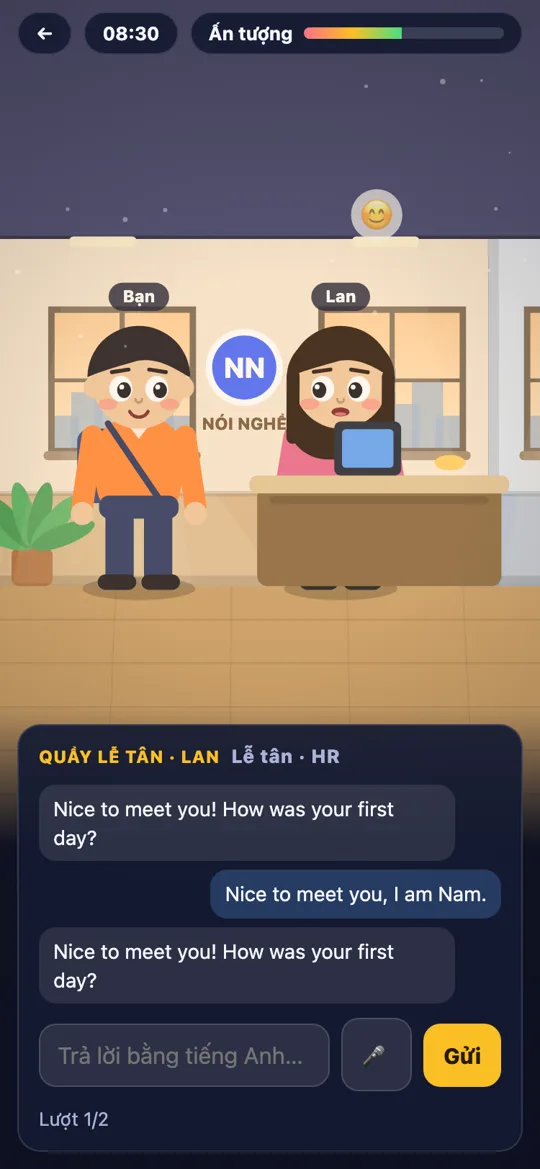
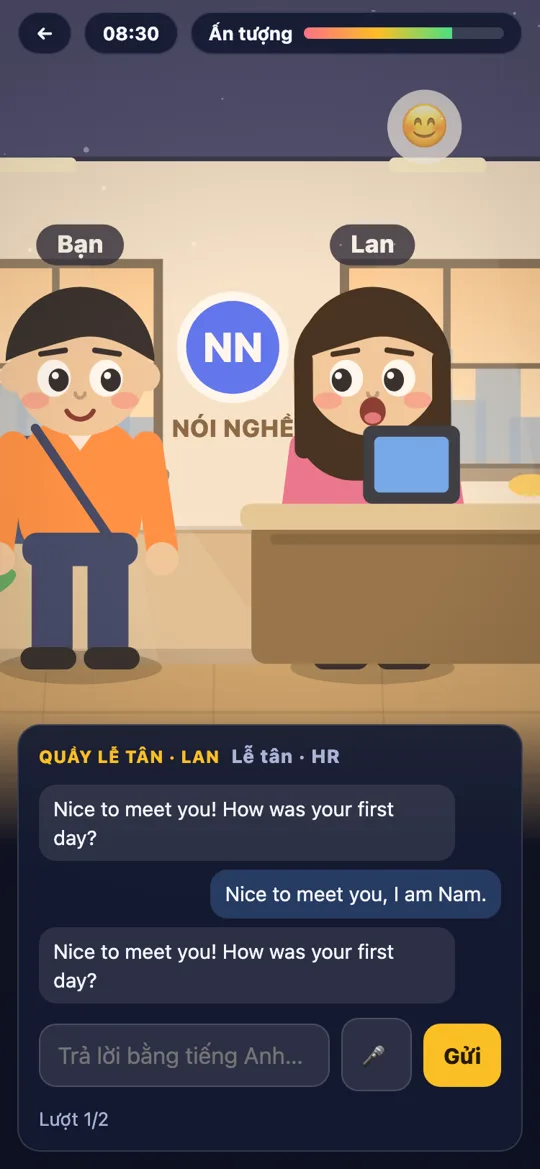
fix(game3d): phóng to cảnh cho lấp khoảng trống phía trên; cập nhật ảnh showcase, README test

diff --git a/game3d/game3d.js b/game3d/game3d.js
@@ -180,8 +180,8 @@ function frame(now){
   var dt=Math.min(.05,(now-t0)/1000);t0=now;
   var pt=$('#panel'),top=CH-(pt?pt.offsetHeight:200);
   var avail=Math.max(160,top-70),fyT,scT,camT;
-  if(view.over||!st.on){scT=Math.min(CW/(W*1.5),avail/330);fyT=70+(avail+WALL*scT)/2;camT=reduce?2.5*W:(2.5*W+Math.sin(now/7000)*1.9*W);}
-  else{scT=Math.min(CW/420,avail/300);fyT=70+(avail+WALL*scT)/2+6;camT=slotX(view.room)+20;}
+  if(view.over||!st.on){scT=Math.min(CW/(W*1.15),avail/290);fyT=70+(avail+WALL*scT)/2;camT=reduce?2.5*W:(2.5*W+Math.sin(now/7000)*1.9*W);}
+  else{scT=Math.min(CW/290,avail/290);fyT=70+(avail+WALL*scT)/2+6;camT=slotX(view.room)+20;}
   var k1=1-Math.pow(.004,dt);
   view.fy+=(fyT-view.fy)*k1;view.sc+=(scT-view.sc)*k1;view.camX+=(camT-view.camX)*k1;
   // người chơi đi bộ

diff --git a/tests/README.md b/tests/README.md
@@ -20,3 +20,5 @@ Chạy toàn bộ: `tests/run.sh` (tự bật server tĩnh cổng 8765). Ảnh c
 `lib.mjs`: viewport 375×667, chặn Google Fonts, giả `speechSynthesis`, giả AI qua `window.claude.use('sample')` (hàm `ai`/`aiJson` truyền vào), nạp sẵn `localStorage`.
 Biến môi trường: `BASE_URL`, `CHROMIUM_PATH`, `PLAYWRIGHT_MODULE`, `SHOTS_DIR`.
 Mỗi test in `ERRORS: none` khi không có lỗi JS/console.
+
+- `o.mjs` — game "Ngày đầu đi làm" (`game3d/`, canvas 2D): 5 điểm chọn đáp, chat AI ở cả 5 nhân vật, tổng kết lỗi, link từ Hồ sơ game.
